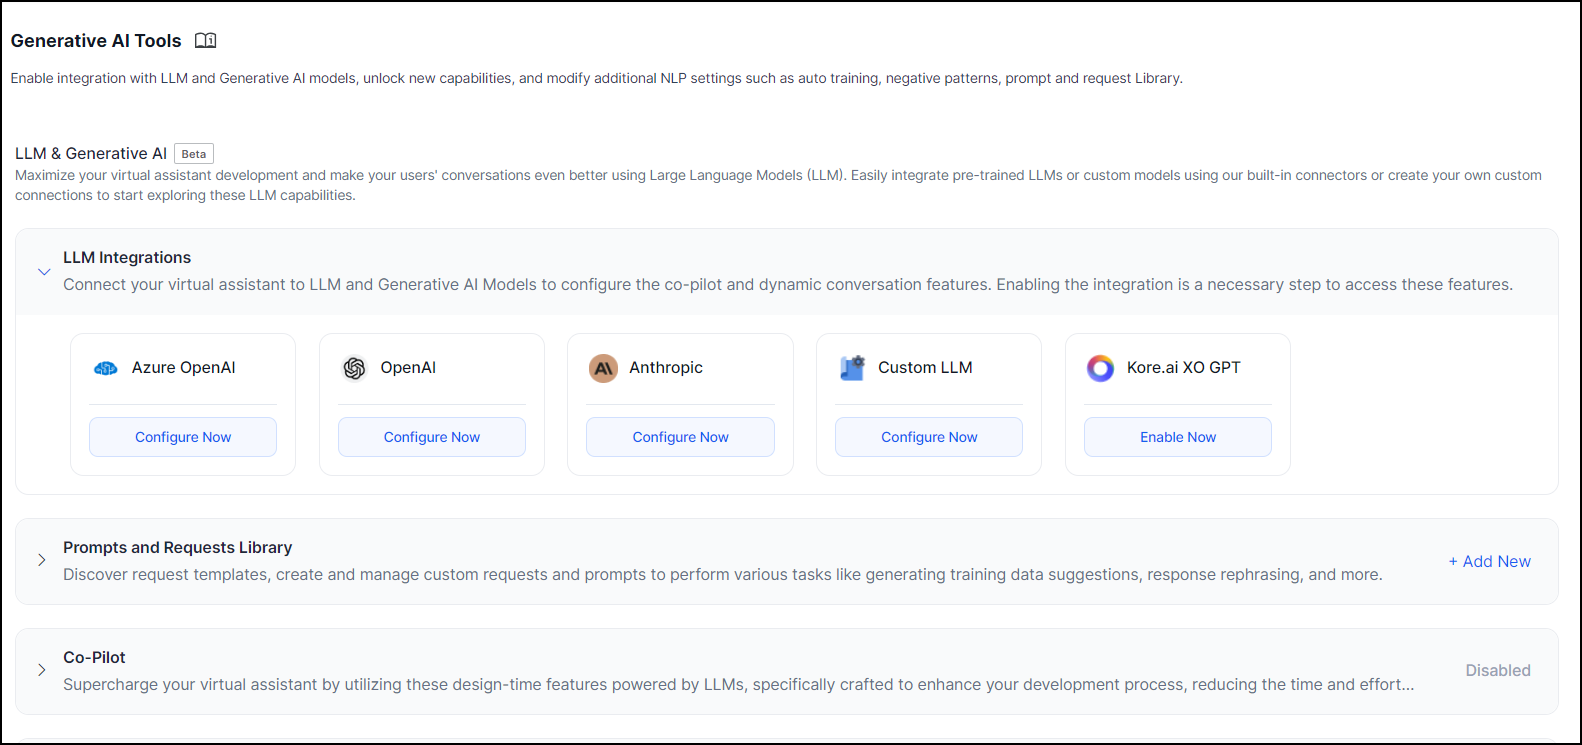
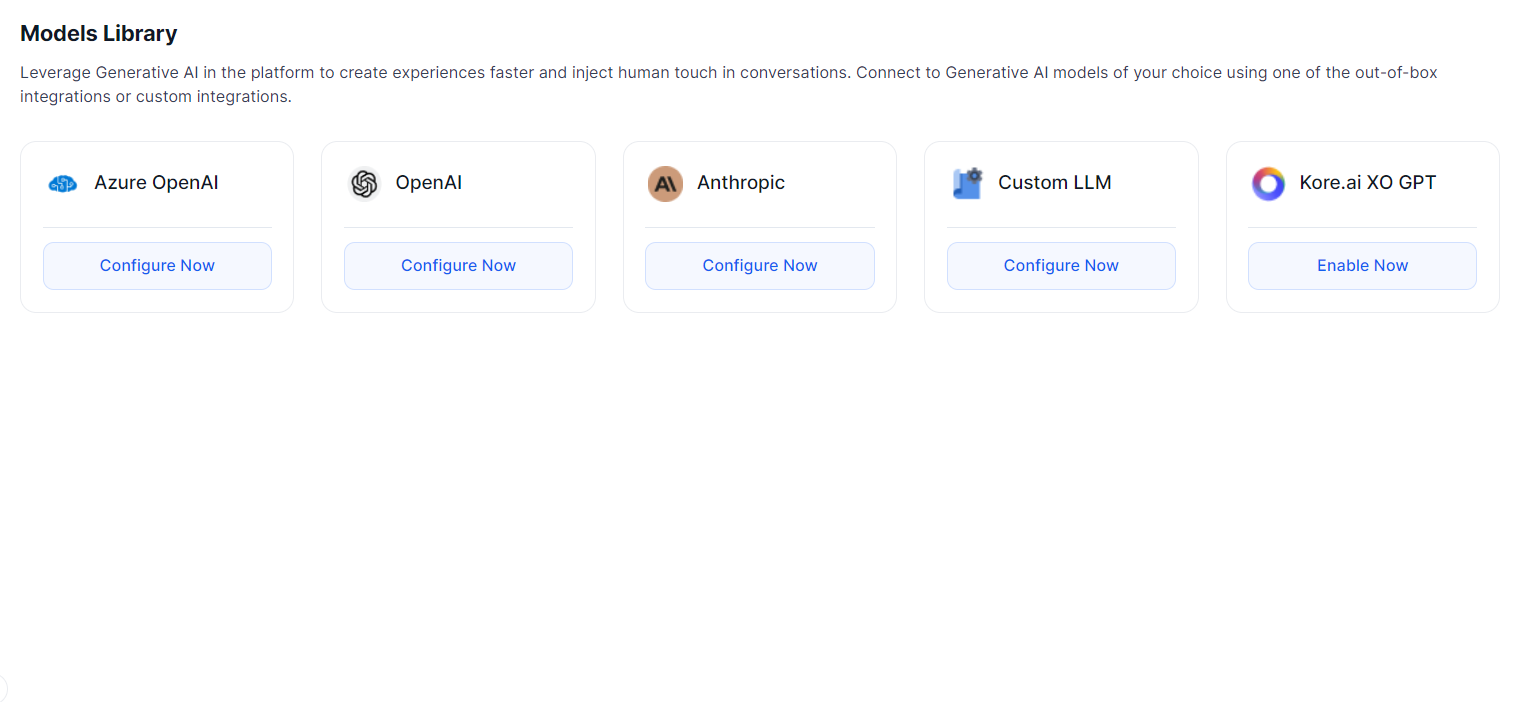
update

diff --git a/docs/xo/generative-ai-tools/models-library.md b/docs/xo/generative-ai-tools/models-library.md
@@ -17,9 +17,9 @@ Steps to configure a pre-built LLM:
 
 
 1. Go to **Generative AI Tools** > **Models Library**.
+<img src="../images/llm-intro.png" alt="Models Library" title="Models Library" style="border: 1px solid gray; zoom:70%;">
 
-
-    ![alt_text](images/llm-intro.png  )
+  
 
 2. Choose the LLM you want to configure.
     1. Steps to configure Azure OpenAI:
@@ -39,11 +39,11 @@ Steps to configure a pre-built LLM:
         3. Read the **Policy Guidelines**, select the checkbox, and click **Save**.
 
 3. The configured model is listed in the Models Library section. The status changed to _X/Y_ models configured, where _X_ is the number of the model(s) configured, and _Y_ is the number of model(s) supported. 
-    ![alt_text](images/llm-integration(10).png  )
+   
 
-4. If you want to configure another model, click **+ New Integration** and select the model. 
-
-    ![alt_text](images/llm-integration(11).png  )
+4. If you want to configure another model, click **+ New Model** and select the model. 
+<img src="../images/new-model.png" alt="+ New  Model" title="+ New Model" style="border: 1px solid gray; zoom:70%;">
+  
 
 5. The next step is to enable [ Co-Pilot](co-pilot-features.md) and [Dynamic Conversations](dynamic-conversations-features.md) features.
 
@@ -69,13 +69,13 @@ Steps to integrate a Custom LLM:
 2. Click **Custom LLM**. 
 
 
-    ![alt_text](images/llm-intro.png  )
+    <img src="../images/llm-intro.png" alt="Models Library" title="Models Library" style="border: 1px solid gray; zoom:70%;">
 
-    If you have already configured a model, click **+ New Integration** > **Custom Integration**. 
+    If you have already configured a model, click **+ New Model** > **Custom Integration**. 
 
 
 
-    ![alt_text](images/llm-integration(3).png  )
+    <img src="../images/new-model.png" alt="+ New  Model" title="+ New Model" style="border: 1px solid gray; zoom:70%;">
 
 3. On the **Configuration** tab, enter the details like **Integration Name**, **Model Name**, **Endpoint**, and **Headers**. 
 
@@ -104,7 +104,7 @@ Steps to integrate a Custom LLM:
 7. Please **Read Policy Guidelines**, select the check box, and then click **Save**.
 8. The success confirmation message is displayed on the screen. The configured model is listed in the LLM Integration section. The status changed to _X/Y_ models configured, where _X_ is the number of the model(s) configured, and _Y_ is the number of model(s) supported. 
 
-    ![alt_text](images/llm-integration(17).png  )
+    
 
 9. The next step is to add[ Prompts](prompts-library.md).
 
@@ -123,11 +123,11 @@ Steps to enable Kore.ai XO GPT Models.
 1. Go to **Generative AI Tools** > **Models Library**..
 
 2. Click **Enable Now** for Kore.ai XO GPT.
-![alt_text](images/llm-intro.png  )
+<img src="../images/llm-intro.png" alt="Models Library" title="Models Library" style="border: 1px solid gray; zoom:70%;">
 
-    If you have already configured a model, click **+ New Integration > Kore.ai XO GPT**.
-
-    ![alt_text](images/xogpt2.png  )
+    If you have already configured a model, click **+ New Model > Kore.ai XO GPT**.
+    <img src="../images/xogpt2.png" alt="XO GPT" title="XO GPT" style="border: 1px solid gray; zoom:70%;">
+   
  
 3. On the **Models** tab, toggle on the models as required.
 ![alt_text](images/xo-gpt-models.png  )
@@ -135,7 +135,7 @@ Steps to enable Kore.ai XO GPT Models.
 
 4. Read the Policy Guidelines, select the checkbox, and click Save.
 5. The success confirmation message is displayed on the screen. The configured model is listed in the LLM Integration section. The status changes to X/Y models configured, where X is the number of the model(s) configured, and Y is the number of model(s) supported.
-![alt_text](images/xogpt4.png  )
+
 
 
 6. You can now use these models in [ Co-Pilot](co-pilot-features.md) and [Dynamic Conversations](dynamic-conversations-features.md) features.
@@ -165,12 +165,14 @@ Steps to reset an integration:
 
 
 1. Go to **Generative AI Tools** > **Models Library**.
-2. In the **LLM Integration** section, click three dots (more icons) and then click the **Reset Configuration** for the integration you want to reset. 
+2. Click three dots (more icons) and then click the **Reset Configuration** for the model you want to reset. 
+<img src="../images/reset-config.png" alt="Reset Configuration" title="Reset Configuration" style="border: 1px solid gray; zoom:70%;"> 
 
 
 
 
-    ![alt_text](images/llm-integration(14).png  )
+
+
 
 3. Click **Reset** in the confirmation dialog.  
 <img src="../images/llm-integration(6).png" alt="Reset Configuration" title="Reset Configuration" style="border: 1px solid gray; zoom:70%;"> 
@@ -187,9 +189,10 @@ Steps to delete an integration:
 
 
 1. Go to **Generative AI Tools** > **Models Library**.
-2. In the **LLM Integration** section, click three dots (more icons) and then click **Delete** for the integration you want to delete. 
+2. Click three dots (more icons) and then click **Delete** for the integration you want to delete.
+<img src="../images/reset-custom.png" alt="reset-custom" title="Delete Custom Model" style="border: 1px solid gray; zoom:70%;">
 
-    ![alt_text](images/llm-integration(13).png  )
+    ![alt_text](images/reset-custom).png  )
 
 3. Click **Delete** in the confirmation dialog.  
 <img src="../images/llm-integration(16).png" alt="Delete Configuration" title="Delete Configuration" style="border: 1px solid gray; zoom:70%;">
@@ -208,8 +211,9 @@ Steps to delete an integration:
 Steps to reset an integration:
 
 1. Go to **Generative AI Tools** > **Models Library**.
-2. In the **LLM Integration section**, click three dots (more icons) for Kore.ai XO GPT and then click the **Reset Configuration** for the integration you want to reset.
-![alt_text](images/xogpt5.png  )
+2. Click three dots (more icons) for Kore.ai XO GPT and then click the **Reset Configuration** for the integration you want to reset.
+<img src="../images/reset-xo.png" alt="Reset XO GPT" title="Reset XO GPT" style="border: 1px solid gray; zoom:70%;">
+
 
 
 
